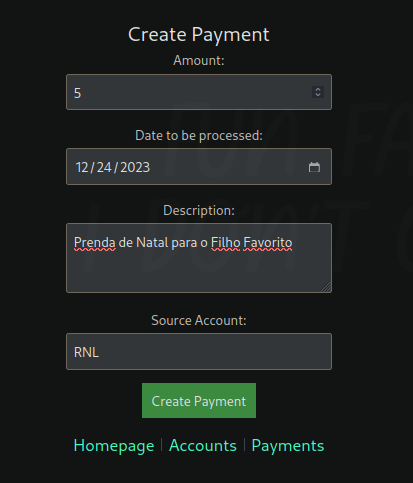
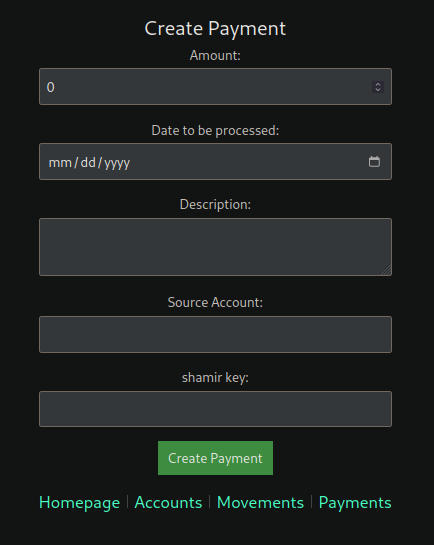
Finish report

diff --git a/library/src/crypto.ts b/library/src/crypto.ts
@@ -407,12 +407,12 @@ export function toBytesInt64(num: bigint) {
 }
 
 export const generatePOWChallenge = () => {
-  const challenge = (Math.random() * 1000 + 100).toFixed(0); // TODO: Improve challenge
+  const challenge = (Math.random() * 1000 + 100).toFixed(0);
   return String(challenge);
 };
 
 export const solvePOWChallenge = (challenge: string) => {
-  const solution = parseInt(challenge) * 39; // TODO: Improve challenge
+  const solution = parseInt(challenge) * 39;
   return String(solution);
 };
 

diff --git a/backend/src/controllers/AccountController.ts b/backend/src/controllers/AccountController.ts
@@ -14,8 +14,6 @@ export const createAccount = async (req: Request, res: Response) => {
   const { name, currency, accountHolders } = req.body;
 
   try {
-    // TODO: Check if user is authorized to create account
-    // TODO: Check if account holders are valid users
     const users = await Promise.all(
       accountHolders.map((email: string) => UserService.getUserByEmail(email)),
     );

diff --git a/REPORT.md b/REPORT.md
@@ -288,7 +288,7 @@ The server will then store the public key in the database, encrypted with the Sh
 This distribution of keys tries to follow what was taught in class about the Perfect Forward Secrecy (PFS).
 If a session key is compromised, the attacker can only access the information of that session.
 Here we assume that the Key Encrypting Key (KEK) is the shared-secret (created in the registration phase).
-Authenticity can be achieved by the user verifying the freshness (through the nonce/challenge) and the integrity (through the HMAC) of the message. TODO:
+Authenticity can be achieved by the user verifying the freshness (through the nonce/challenge) and the integrity (through the HMAC) of the message.
 
 The challenge is used to ensure that the user is who he says he is. The challenge itself is based on the shared-secret, since it is assumed that the user has access to it.
 It would also be possible for the user to challenge the server but this was not implemented due to time constraints.
@@ -307,7 +307,7 @@ When a user creates an account, a POST request is sent with the account holders,
 
 Upon receiving this request, the server will generate an account key that will be used to encrypt the account movements and the account balance.
 Then it will generate N + 1 Keys based on the account key, where N is the number of account holders, using the Shamir Secret Sharing algorithm.
-The extra key is the server's key which will be stored in the database, encrypted with the Master Key. (TODO)
+The extra key is the server's key which will be stored in the database, encrypted with the Master Key.
 
 The other N keys will be sent by email to the respective users, encrypted with the shared-secret of each user and deleted from the backend's memory.
 

diff --git a/README.md b/README.md
@@ -27,7 +27,7 @@ In order to install the multiple machines, a guide was provided [here](https://g
 
 The following diagram shows the networks and machines:
 
-*(include a text-based or an image-based diagram)*
+![infra](img/report/infrastructure.jpg)
 
 ### Prerequisites
 
@@ -248,6 +248,8 @@ Upon creating an account, the user will receive an email with the account's secr
 
 He can also see the movements of each account.
 
+[![shamir-mov](img/report/shamir-mov.png)](img/report/shamir-mov.png)
+
 [![Movements](img/report/movements.png)](img/report/movements.png)
 
 Going to the payments tab, the user can see the payments that he has made.
@@ -258,9 +260,13 @@ He can also create new payments.
 
 [![Create Payment](img/report/create-payment.png)](img/report/create-payment.png)
 
-//TODO
+He can also sign the payment.
 
-*(IMPORTANT: show evidence of the security mechanisms in action; show message payloads, print relevant messages, perform simulated attacks to show the defenses in action, etc.)*
+[![Sign Payment](img/report/sign-payment.png)](img/report/sign-payment.png)
+
+Login phase.
+
+[![session](img/report/session.png)](img/report/session.png)
 
 This concludes the demonstration.
 
